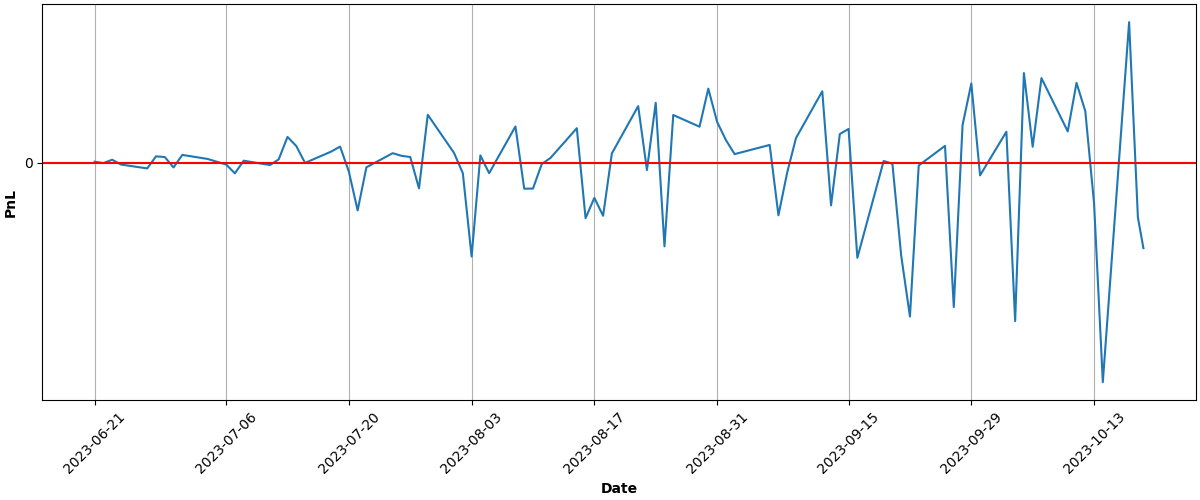
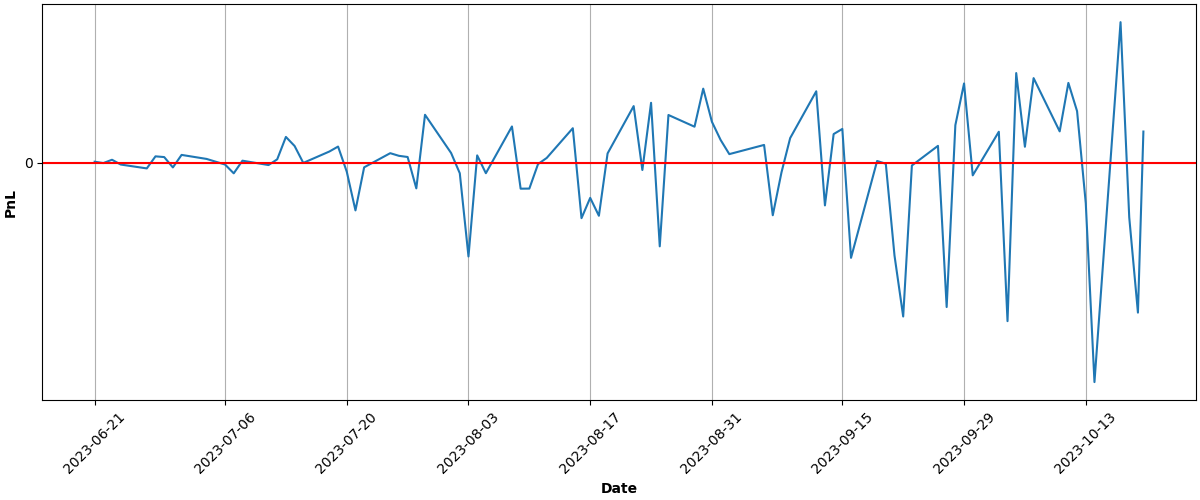
Automated Buy At Thu Oct 19 15:04:33 UTC 2023 Run ID 6576551208

diff --git a/README.md b/README.md
@@ -68,9 +68,9 @@ Results
 
 | Asset | Average Price | Current Price | ROI | 📈 |
 | --- | --- | --- | --- | --- |
-| FNGU | $175.191611128 | $158.3064 | -9.64% | &#128308;&#128546; |
-| SVIX | $28.314922857 | $25.55 | -9.76% | &#128308;&#128546; |
-| **Total** |  |  | **-9.71%** | &#128308;&#128557; |
+| FNGU | $174.982347912 | $158.49 | -9.43% | &#128308;&#128546; |
+| SVIX | $28.218672222 | $24.83 | -12.01% | &#128308;&#128546; |
+| **Total** |  |  | **-10.81%** | &#128308;&#128557; |
 
 ### PnL over time (calculations may not be accurate):
 
@@ -81,6 +81,6 @@ Results
 ---
 
 
-Updated at 2023-10-18 15:05:06
+Updated at 2023-10-19 15:04:57
 
 
